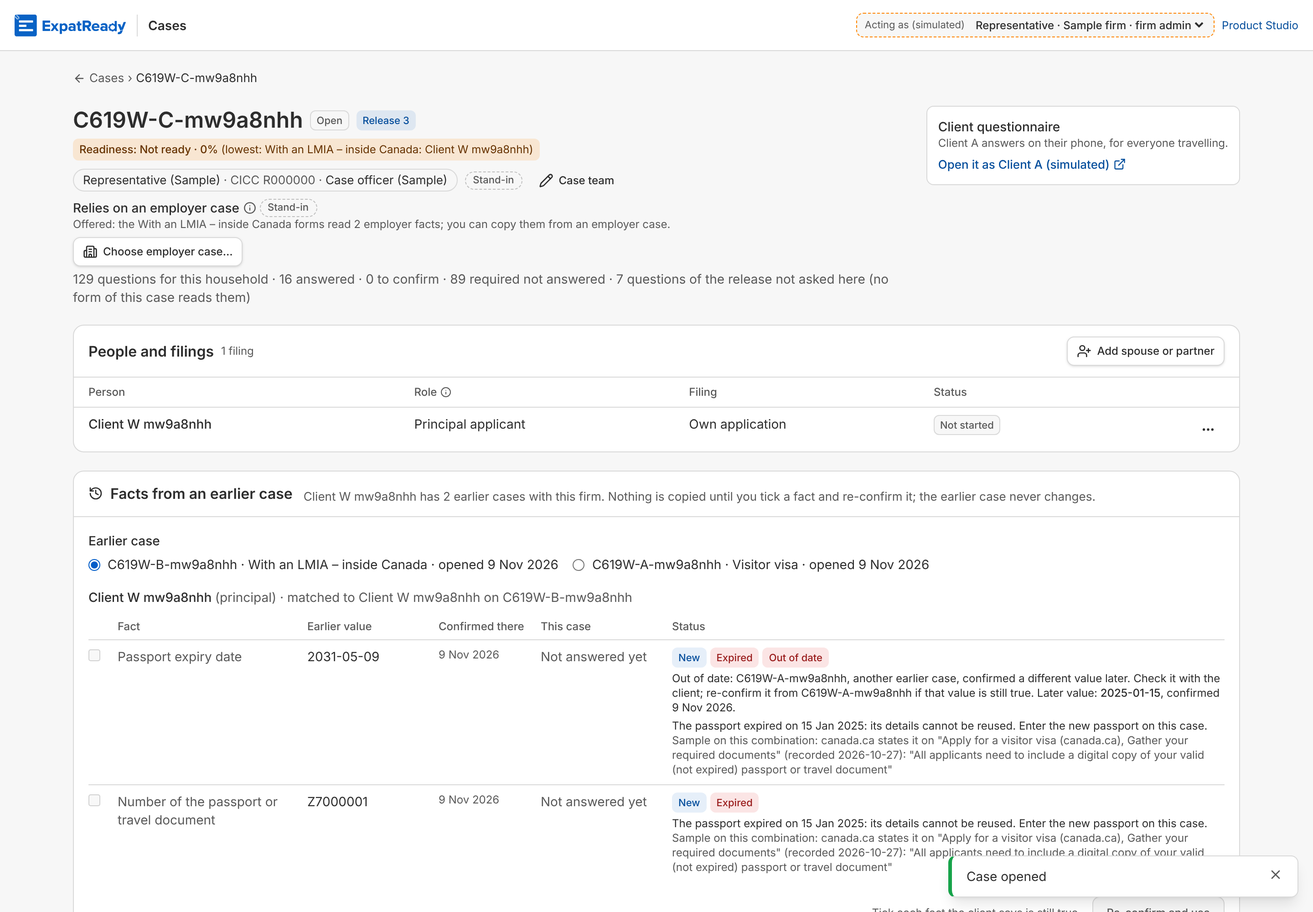
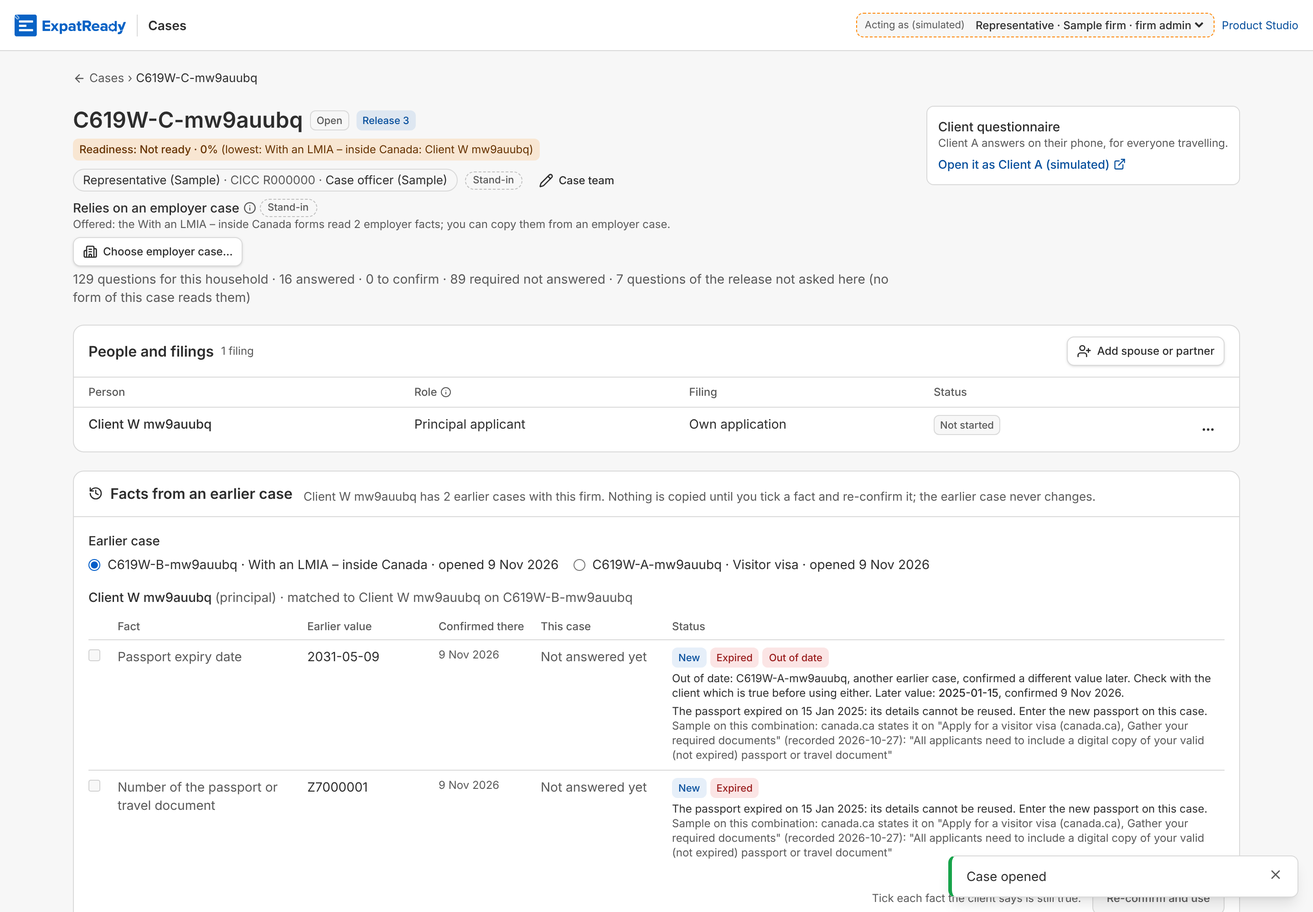
runtime: C6.19 — QA-338 review fixes: an unconfirmed correction still expires a stale copy
* Review M1: the expiry check reads the newest date typed for the person on any earlier case, confirmed or not
  (as on one case); the Out of date flag stays confirmed-only.
* Review m1: a date a case lacks is not borrowed from another case (it may be another passport's).
* Review m2: the Out of date words no longer advise re-confirming a value that may itself be refused.
* Review m3: a copy counts from its re-confirmation, not its first giving.
* Review m4: the refusal gives the Out of date reason; re-confirm reads the same cases as the card, candidates once.
* Pack 81/81: pure and API fail tests for M1, m1 and the Out of date refusal.

Fixes: QA-338

Claude-Session: https://claude.ai/code/session_01MXNda4k8UBWnRgXwe5YdHB

diff --git a/ai-workers/problem-1-pathway-setup-and-form-filling/prototype/studio/engine/runtime/earlier-facts.ts b/ai-workers/problem-1-pathway-setup-and-form-filling/prototype/studio/engine/runtime/earlier-facts.ts
@@ -91,25 +91,28 @@ export function matchPeople(here: Participant[], earlier: Participant[]): Map<st
 }
 
 /** One earlier answer as the offer reads it: confirmed on the earlier case (confirmation().confirmed) or not. */
-export type EarlierAnswer = { id: string; subjectId: string; field: string; value: unknown; confirmed: boolean; confirmedAt: string; confirmedBy: string };
+export type EarlierAnswer = { id: string; subjectId: string; field: string; value: unknown; confirmed: boolean; confirmedAt: string; confirmedBy: string; seenAt?: string };
+/** QA-338 (review m3): when the firm last vouched for an answer: a copy's re-confirmation, else the answer's own time. */
+const seenOf = (a: EarlierAnswer) => a.seenAt ?? a.confirmedAt;
 export type CurrentAnswer = { id: string; subjectId: string; field: string; value: unknown };
 /** QA-338: a value confirmed later on another earlier case of the same person, which makes this case's copy out of date. */
 export type NewerValue = { case_id: string; reference: string; value: unknown; confirmed_at: string; words: string };
 export type OfferFact = { fact: string; label: string; value: unknown; from_answer: string; confirmed_at: string; confirmed_by: string; state: "new" | "different"; current: { answer_id: string; value: unknown } | null; expiry: ExpiryFlag | null; newer: NewerValue | null; problems: string[]; usable: boolean };
 
-/** QA-338 (BR-6; concept §1, "an expired passport is caught before it reaches a form"): the newest value confirmed for
- *  each person on this case across every earlier case read, keyed "<this case's subject>|<fact>". Two earlier cases can
- *  disagree (a copy kept on case B, BR-3, while case A was corrected later); the newest confirmation is what the firm last
- *  knew. Pure: the reads are the earlier cases' answers with each case's person match (matchPeople). */
+/** QA-338 (BR-6; concept §1, "an expired passport is caught before it reaches a form"): the newest value for each person
+ *  on this case across every earlier case read, keyed "<this case's subject>|<fact>". Two earlier cases can disagree (a
+ *  copy kept on case B, BR-3, while case A was corrected later). Confirmed answers only by default (the Out of date flag);
+ *  with confirmedOnly false, also answers typed and not yet confirmed (the expiry check, as on one case: review M1).
+ *  Pure: the reads are the earlier cases' answers with each case's person match (matchPeople). */
 export type Latest = { case_id: string; reference: string; value: unknown; at: string };
-export function latestConfirmed(reads: { case_id: string; reference: string; match: Map<string, string>; answers: EarlierAnswer[] }[]): Map<string, Latest> {
+export function latestConfirmed(reads: { case_id: string; reference: string; match: Map<string, string>; answers: EarlierAnswer[] }[], confirmedOnly = true): Map<string, Latest> {
   const out = new Map<string, Latest>();
   for (const r of reads) {
     for (const [here, from] of r.match) {
       for (const a of r.answers) {
-        if (a.subjectId !== from || !a.confirmed) continue;
+        if (a.subjectId !== from || (confirmedOnly && !a.confirmed)) continue;
         const k = `${here}|${a.field}`, had = out.get(k);
-        if (!had || a.confirmedAt > had.at) out.set(k, { case_id: r.case_id, reference: r.reference, value: a.value, at: a.confirmedAt });
+        if (!had || seenOf(a) > had.at) out.set(k, { case_id: r.case_id, reference: r.reference, value: a.value, at: seenOf(a) });
       }
     }
   }
@@ -123,10 +126,12 @@ export type OfferPerson = { subject_id: string; label: string; role: string; fro
 /** BR-2, BR-5, BR-6: what one earlier case offers each person on this case. A fact this case already holds with the same
  *  value is not offered (Same); a different one is shown with both values (Different); an expired or unfit value is
  *  shown and not usable. Earlier people with no match are listed by name and role (nothing of theirs moves). */
-/** QA-338: with `latest` (latestConfirmed over every earlier case read) and this earlier case's id, a fact confirmed
- *  differently later on another earlier case is shown with that value and reason and is not usable, and the expiry rules
- *  read the newest date the firm holds for the person, so a stale copy of a corrected, expired passport is caught. */
-export function offerFrom(input: { snapshot: Snapshot; here: Participant[]; current: CurrentAnswer[]; earlier: Participant[]; earlierAnswers: EarlierAnswer[]; background?: Set<string>; today: Date; rules?: ExpiryRule[]; combinationKey?: string; caseId?: string; latest?: Map<string, Latest> }): { people: OfferPerson[]; unmatched: { label: string; role: string }[] } {
+/** QA-338: with `latest` (latestConfirmed over every earlier case read), `latestAny` (the same with unconfirmed answers)
+ *  and this earlier case's id, a fact confirmed differently later on another earlier case is shown with that value and
+ *  reason and is not usable, and a date this case holds is read as the newest one typed for the person elsewhere, so a
+ *  stale copy of a corrected, expired passport is caught. A date this case lacks is not borrowed (review m1: it may be
+ *  another passport's; BR-6's "not known" warning stays). */
+export function offerFrom(input: { snapshot: Snapshot; here: Participant[]; current: CurrentAnswer[]; earlier: Participant[]; earlierAnswers: EarlierAnswer[]; background?: Set<string>; today: Date; rules?: ExpiryRule[]; combinationKey?: string; caseId?: string; latest?: Map<string, Latest>; latestAny?: Map<string, Latest> }): { people: OfferPerson[]; unmatched: { label: string; role: string }[] } {
   const asked = personFactsAsked(input.snapshot, input.background);
   const match = matchPeople(input.here, input.earlier);
   const people: OfferPerson[] = [];
@@ -136,11 +141,9 @@ export function offerFrom(input: { snapshot: Snapshot; here: Participant[]; curr
     const all = from ? input.earlierAnswers.filter((a) => a.subjectId === from) : [], theirs = all.filter((a) => a.confirmed);
     // An expiry date read even when it was not confirmed there: a confirmed passport number never escapes an expired date.
     const dated = new Map(all.map((a) => [a.field, a.value]));
-    for (const [k, l] of input.latest ?? []) {
-      const [who, field] = [k.slice(0, k.indexOf("|")), k.slice(k.indexOf("|") + 1)];
-      if (who !== p.subjectId) continue;
-      const own = all.find((a) => a.field === field); // none here: the newest date known elsewhere is read
-      if (input.caseId && l.case_id !== input.caseId && (!own || newerThan(l, input.caseId, own.value, own.confirmedAt))) dated.set(field, l.value);
+    for (const a of all) {
+      const l = newerThan(input.latestAny?.get(`${p.subjectId}|${a.field}`), input.caseId, a.value, seenOf(a));
+      if (l) dated.set(a.field, l.value);
     }
     const flags = expiryFlags(dated, input.today, input.rules, input.combinationKey);
     const facts: OfferFact[] = [];
@@ -151,8 +154,8 @@ export function offerFrom(input: { snapshot: Snapshot; here: Participant[]; curr
       const state = factState(a.value, cur);
       if (state === "same") continue;
       const problems = checkValue(input.snapshot, q.fact, a.value, input.today), expiry = flags.get(q.fact) ?? null;
-      const n = newerThan(input.latest?.get(`${p.subjectId}|${q.fact}`), input.caseId, a.value, a.confirmedAt);
-      const newer: NewerValue | null = n ? { case_id: n.case_id, reference: n.reference, value: inStoredOrder(n.value), confirmed_at: n.at, words: `Out of date: ${n.reference}, another earlier case, confirmed a different value later. Check it with the client; re-confirm it from ${n.reference} if that value is still true.` } : null;
+      const n = newerThan(input.latest?.get(`${p.subjectId}|${q.fact}`), input.caseId, a.value, seenOf(a));
+      const newer: NewerValue | null = n ? { case_id: n.case_id, reference: n.reference, value: inStoredOrder(n.value), confirmed_at: n.at, words: `Out of date: ${n.reference}, another earlier case, confirmed a different value later. Check with the client which is true before using either.` } : null;
       facts.push({ fact: q.fact, label: q.label, value: inStoredOrder(a.value), from_answer: a.id, confirmed_at: a.confirmedAt, confirmed_by: a.confirmedBy, state, current: cur ? { answer_id: cur.id, value: inStoredOrder(cur.value) } : null, expiry, newer, problems, usable: !problems.length && !expiry?.blocks && !newer });
     }
     people.push({ subject_id: p.subjectId, label: p.label, role: p.role, from_subject_id: from, from_label: fromP?.label ?? null, facts });

diff --git a/ai-workers/problem-1-pathway-setup-and-form-filling/prototype/studio/acceptance/C6.19.test.ts b/ai-workers/problem-1-pathway-setup-and-form-filling/prototype/studio/acceptance/C6.19.test.ts
@@ -78,17 +78,24 @@ function pure() {
   const pB = [{ subjectId: "pB", role: "principal" as const, label: "Client A", applies: true }], pA = [{ subjectId: "pA", role: "principal" as const, label: "Client A", applies: true }];
   const onB = [ansAt("b1", "pB", NUMBER, "Z7000001", at(3)), ansAt("b2", "pB", EXPIRY, "2031-05-09", at(3))], onA = [ansAt("x1", "pA", NUMBER, "Z7000001", at(2)), ansAt("x2", "pA", EXPIRY, "2025-01-15", at(5))];
   const reads = [{ case_id: "B", reference: "CASE-B", match: matchPeople(here, pB), answers: onB }, { case_id: "A", reference: "CASE-A", match: matchPeople(here, pA), answers: onA }];
-  const latest = latestConfirmed(reads);
+  const latest = latestConfirmed(reads), latestAny = latestConfirmed(reads, false);
   ok("C6.19 QA-338: the newest confirmed value per person is the one confirmed last, on whichever earlier case", latest.get(`p|${EXPIRY}`)?.case_id === "A" && latest.get(`p|${EXPIRY}`)?.value === "2025-01-15", [...latest]);
-  const bOffer = offerFrom({ snapshot: s, here, current: [], earlier: pB, earlierAnswers: onB, today, caseId: "B", latest }).people.find((p) => p.subject_id === "p")!.facts;
+  const bOffer = offerFrom({ snapshot: s, here, current: [], earlier: pB, earlierAnswers: onB, today, caseId: "B", latest, latestAny }).people.find((p) => p.subject_id === "p")!.facts;
   const bExp = bOffer.find((f) => f.fact === EXPIRY), bNum = bOffer.find((f) => f.fact === NUMBER);
   ok("C6.19 QA-338 (newer value): case B's stale expiry is Out of date, naming case A and its later value, and cannot be ticked", bExp?.newer?.reference === "CASE-A" && bExp.newer.value === "2025-01-15" && /another earlier case, confirmed a different value later/.test(bExp.newer.words) && !bExp.usable, bExp);
   ok("C6.19 QA-338 (expired document): case B's passport number reads Expired from the newest expiry date (case A's), not usable", bNum?.expiry?.status === "expired" && /expired on 15 Jan 2025/.test(bNum.expiry.words) && !bNum.newer && !bNum.usable, bNum);
-  const aOffer = offerFrom({ snapshot: s, here, current: [], earlier: pA, earlierAnswers: onA, today, caseId: "A", latest }).people.find((p) => p.subject_id === "p")!.facts;
+  const aOffer = offerFrom({ snapshot: s, here, current: [], earlier: pA, earlierAnswers: onA, today, caseId: "A", latest, latestAny }).people.find((p) => p.subject_id === "p")!.facts;
   ok("C6.19 QA-338 fail (newer value): the newest value itself, and a value the other case agrees with, are never Out of date", aOffer.every((f) => !f.newer) && !bNum?.newer, aOffer.map((f) => [f.fact, f.newer]));
-  const valid = latestConfirmed([{ ...reads[0] }, { ...reads[1], answers: [ansAt("x2", "pA", EXPIRY, "2033-01-01", at(1))] }]);
-  const bOld = offerFrom({ snapshot: s, here, current: [], earlier: pB, earlierAnswers: onB, today, caseId: "B", latest: valid }).people.find((p) => p.subject_id === "p")!.facts;
+  const validReads = [{ ...reads[0] }, { ...reads[1], answers: [ansAt("x2", "pA", EXPIRY, "2033-01-01", at(1))] }];
+  const bOld = offerFrom({ snapshot: s, here, current: [], earlier: pB, earlierAnswers: onB, today, caseId: "B", latest: latestConfirmed(validReads), latestAny: latestConfirmed(validReads, false) }).people.find((p) => p.subject_id === "p")!.facts;
   ok("C6.19 QA-338 fail (expired document): an older, different value on another case neither marks case B's newer copy Out of date nor changes its expiry; both stay usable", bOld.every((f) => !f.newer && !f.expiry && f.usable), bOld.map((f) => [f.fact, f.newer, f.expiry?.status, f.usable]));
+  // Review M1: case A's correction typed and not yet confirmed still expires case B's copy (as on one case, BR-6).
+  const typedReads = [{ ...reads[0] }, { ...reads[1], answers: [onA[0], { ...onA[1], confirmed: false }] }];
+  const bTyped = offerFrom({ snapshot: s, here, current: [], earlier: pB, earlierAnswers: onB, today, caseId: "B", latest: latestConfirmed(typedReads), latestAny: latestConfirmed(typedReads, false) }).people.find((p) => p.subject_id === "p")!.facts;
+  ok("C6.19 QA-338 fail (review M1): a correction typed on case A and not confirmed still makes case B's passport number and expiry Expired, not usable (not Out of date: it is not confirmed)", bTyped.every((f) => f.expiry?.status === "expired" && !f.usable && !f.newer), bTyped.map((f) => [f.fact, f.expiry?.status, f.newer, f.usable]));
+  // Review m1: a date case B lacks is not borrowed from case A (it may be another passport's): B's number warns "not known".
+  const bNoDate = offerFrom({ snapshot: s, here, current: [], earlier: pB, earlierAnswers: [onB[0]], today, caseId: "B", latest, latestAny }).people.find((p) => p.subject_id === "p")!.facts.find((f) => f.fact === NUMBER);
+  ok("C6.19 QA-338 fail (review m1): case B with no expiry date of its own borrows none: its number keeps the 'not known' warning", bNoDate?.expiry?.status === "unknown" && bNoDate.usable, bNoDate);
 }
 
 async function checkpoint() {
@@ -237,6 +244,25 @@ async function api() {
   const viaB = bNumber ? await call("POST", `/runtime/cases/${c.id}/earlier-facts`, { earlierCase: b.id, take: [{ subject_id: pc, fact: NUMBER, from: bNumber.from_answer }], seen: { [`${pc}|${NUMBER}`]: null } }, OFFICER) : { status: 0, body: null };
   ok("C6.19 QA-338 fail: re-confirming case B's copy of the expired passport's number is refused; nothing copied", viaB.status === 409 && /cannot be re-confirmed/.test(JSON.stringify(viaB.body)) && copies(c.id) === 0, viaB.body);
   if (own) ok("C6.19 QA-338 fail: a copy on case B that no later confirmation contradicts (the date of birth) stays usable", fb.find((f) => f.fact === own)?.usable === true, fb.find((f) => f.fact === own));
+  // Review M1 and m4 on real cases: A2's correction typed only, then confirmed; B2 holds the copies from before it.
+  const N2 = `Client R ${run}`, a2 = await open(vv, "A2", N2), pa2 = principalOf(a2);
+  for (const f of [NUMBER, EXPIRY]) await answer(a2.id, pa2, f, VALUES[f]);
+  await confirmAll(a2.id, pa2);
+  const b2 = await open(wp, "B2", N2), pb2 = principalOf(b2);
+  const o2 = ((await offerOf(b2.id)).body as Offer).earlier[0].people.find((p) => p.subject_id === pb2)!.facts.filter((f) => f.fact === NUMBER || f.fact === EXPIRY);
+  const cp2 = await call("POST", `/runtime/cases/${b2.id}/earlier-facts`, { earlierCase: a2.id, take: o2.map((f) => ({ subject_id: pb2, fact: f.fact, from: f.from_answer })), seen: Object.fromEntries(o2.map((f) => [`${pb2}|${f.fact}`, null])) }, OFFICER);
+  ok("setup: case B2 re-confirms the passport number and expiry from case A2", (cp2.status === 201 || cp2.status === 200) && o2.length === 2, cp2.body);
+  const ea2 = (await questions(a2.id)).find((q) => q.subjectId === pa2 && q.fact === EXPIRY)!.answer!;
+  await answer(a2.id, pa2, EXPIRY, "2025-01-15", ea2.id); // typed on A2, not confirmed
+  const c2 = await open(wp, "C2", N2), pc2 = principalOf(c2);
+  const b2On = async () => ((await offerOf(c2.id)).body as Offer).earlier.find((x) => x.case_id === b2.id)!.people.find((p) => p.subject_id === pc2)!.facts;
+  const n2 = (await b2On()).find((f) => f.fact === NUMBER)!;
+  const viaB2 = await call("POST", `/runtime/cases/${c2.id}/earlier-facts`, { earlierCase: b2.id, take: [{ subject_id: pc2, fact: NUMBER, from: n2.from_answer }], seen: { [`${pc2}|${NUMBER}`]: null } }, OFFICER);
+  ok("C6.19 QA-338 fail (review M1): with case A2's correction typed but not confirmed, case B2's passport number reads Expired and re-confirming it is refused; nothing copied", n2.expiry?.status === "expired" && !n2.usable && viaB2.status === 409 && copies(c2.id) === 0, { n2, viaB2: viaB2.body });
+  await confirmAll(a2.id, pa2);
+  const x2 = (await b2On()).find((f) => f.fact === EXPIRY)!;
+  const outOfDate = await call("POST", `/runtime/cases/${c2.id}/earlier-facts`, { earlierCase: b2.id, take: [{ subject_id: pc2, fact: EXPIRY, from: x2.from_answer }], seen: { [`${pc2}|${EXPIRY}`]: null } }, OFFICER);
+  ok("C6.19 QA-338: once case A2 confirms it, case B2's expiry reads Out of date naming A2, and re-confirming it is refused with that reason (review m4)", /Out of date: C619-A2-/.test(JSON.stringify(x2)) && !x2.usable && outOfDate.status === 409 && /cannot be re-confirmed: Out of date: C619-A2-/.test(JSON.stringify(outOfDate.body)) && copies(c2.id) === 0, { x2, outOfDate: outOfDate.body });
 
   // Breaker M1: newer empty cases of the same client never crowd out the earlier case that holds the facts.
   for (let i = 0; i < 6; i++) await open(vv, `crowd${i}`, NAME);

diff --git a/ai-workers/problem-1-pathway-setup-and-form-filling/prototype/studio/api/src/earlier-facts.ts b/ai-workers/problem-1-pathway-setup-and-form-filling/prototype/studio/api/src/earlier-facts.ts
@@ -38,6 +38,8 @@ const ReconfirmBody = z.object({
 const stale = (labels: string[]): never => { throw new HttpException({ type: "https://expatready.local/problems/stale-answer", title: "Changed since you looked", status: 409, detail: `Changed since you looked: ${labels.join(", ")}. Reload to see the facts now; nothing was copied.`, errors: labels.map((l) => ({ field: l, message: "Changed since you looked." })) }, HttpStatus.CONFLICT); };
 const notPossible = (detail: string): never => { throw new HttpException({ type: "https://expatready.local/problems/not-possible", title: "Not possible now", status: 409, detail }, HttpStatus.CONFLICT); };
 const day = (d: Date) => d.toISOString().slice(0, 10);
+/** QA-338 (review m3): a copy counts from its re-confirmation on the case that holds it, not its first giving. */
+const seenAt = (a: { at: string; copiedFrom?: { at: string } | null }) => a.copiedFrom?.at && a.copiedFrom.at > a.at ? a.copiedFrom.at : a.at;
 
 export type EarlierOffer = { case_id: string; reference: string; combination: string; opened_at: string; people: OfferPerson[]; unmatched: { label: string; role: string }[] };
 
@@ -66,7 +68,7 @@ export class EarlierFacts {
     const es = this.runtime.snapshotOf(e), ePeople = this.runtime.peopleOf(e), st = await this.runtime.state(e);
     const { confirm } = knownOf(es, ePeople, st.answers, st.rows, today);
     const earlierAnswers: EarlierAnswer[] = st.answers.filter((a) => !a.rowKey && UUID.test(a.subjectId) && UUID.test(a.id) && a.channel !== FIRM_RECORD)
-      .map((a) => ({ id: a.id, subjectId: a.subjectId, field: a.field, value: a.value, confirmed: !!confirm.get(a.id)?.confirmed, confirmedAt: a.at, confirmedBy: a.actor }));
+      .map((a) => ({ id: a.id, subjectId: a.subjectId, field: a.field, value: a.value, confirmed: !!confirm.get(a.id)?.confirmed, confirmedAt: a.at, confirmedBy: a.actor, seenAt: seenAt(a) }));
     return { cand, e, ePeople, earlierAnswers };
   }
 
@@ -76,11 +78,12 @@ export class EarlierFacts {
     const reads = [];
     for (const cand of cands) reads.push(await this.readEarlier(actor, cand, today));
     const herePeople = this.runtime.peopleOf(c);
-    const latest = latestConfirmed(reads.map((r) => ({ case_id: r.e.id, reference: r.e.reference, match: matchPeople(herePeople, r.ePeople), answers: r.earlierAnswers })));
+    const all = reads.map((r) => ({ case_id: r.e.id, reference: r.e.reference, match: matchPeople(herePeople, r.ePeople), answers: r.earlierAnswers }));
+    const latest = latestConfirmed(all), latestAny = latestConfirmed(all, false);
     const mine = here ?? await this.runtime.state(c), current = this.current(mine.answers), snapshot = this.runtime.snapshotOf(c), background = this.runtime.backgroundOf(c);
     const combinationKey = (await this.db.combination.findUnique({ where: { id: c.combinationId }, select: { combinationKey: true } }))?.combinationKey;
     return reads.map((r) => ({ case_id: r.e.id, reference: r.e.reference, combination: r.cand.case.combination.label, opened_at: r.cand.case.createdAt.toISOString(),
-      ...offerFrom({ combinationKey, snapshot, here: herePeople, current, earlier: r.ePeople, earlierAnswers: r.earlierAnswers, background, today, caseId: r.e.id, latest }) }));
+      ...offerFrom({ combinationKey, snapshot, here: herePeople, current, earlier: r.ePeople, earlierAnswers: r.earlierAnswers, background, today, caseId: r.e.id, latest, latestAny }) }));
   }
 
   /** GET: the earlier cases of this client and what each offers (BR-1, BR-2). An empty list shows no card. */
@@ -103,13 +106,14 @@ export class EarlierFacts {
     const parsed = ReconfirmBody.safeParse(body ?? {});
     if (!parsed.success) throw new HttpException(problemFromZod(parsed.error), HttpStatus.BAD_REQUEST);
     const b = parsed.data;
-    const cand = (await this.candidates(c, b.earlierCase))[0];
+    const cands = await this.candidates(c), cand = cands.find((x) => x.case.id === b.earlierCase);
     if (!cand) fail("No earlier case of this client with that id.", HttpStatus.NOT_FOUND); // BR-1: another firm's or another person's case is never named
     const today = firmToday(), at = new Date().toISOString();
     // QA-338: the chosen case is judged against the others read for the card, so a value confirmed differently later
     // elsewhere is refused here as it is shown there.
-    const read = (await this.candidates(c)).slice(0, EARLIER_READ).filter((x) => x.case.id !== cand!.case.id);
-    const offer = (await this.offersOf(actor, c, [cand!, ...read], today))[0];
+    // Review m4: the same cases the card reads (the chosen one added when it is beyond them).
+    const shown = cands.slice(0, EARLIER_READ), read = shown.includes(cand!) ? shown : [...shown.slice(0, EARLIER_READ - 1), cand!];
+    const offer = (await this.offersOf(actor, c, read, today)).find((o) => o.case_id === cand!.case.id)!;
     const s = this.runtime.snapshotOf(c);
     const fields = (s.canonical_fields ?? []) as { id: string; item_version: number }[];
     const lines = b.take.map((t) => {
@@ -134,7 +138,7 @@ export class EarlierFacts {
       const moved = lines.filter((l) => l.line!.from_answer !== l.t.from);
       if (moved.length) stale(moved.map((l) => `${l.label} (on the earlier case)`));
       const blocked = lines.filter((l) => !l.line!.usable);
-      if (blocked.length) { const l = blocked[0].line!; const why = l.expiry?.blocks ? `${l.expiry.words} (${"sample" in l.expiry.source ? "Sample rule" : `canada.ca, ${l.expiry.source.page}, recorded ${l.expiry.source.recorded}`})` : l.newer ? l.newer.words : l.problems[0]; notPossible(`${blocked[0].label} cannot be re-confirmed: ${why} Nothing was copied.`); }
+      if (blocked.length) { const l = blocked[0].line!; const why = l.newer ? l.newer.words : l.expiry?.blocks ? `${l.expiry.words} (${"sample" in l.expiry.source ? "Sample rule" : `canada.ca, ${l.expiry.source.page}, recorded ${l.expiry.source.recorded}`})` : l.problems[0]; notPossible(`${blocked[0].label} cannot be re-confirmed: ${why} Nothing was copied.`); }
       // Challenge M2: the earlier answer shown must still be current there (append-only rows never change their value, so
       // the value copied is exactly the one the officer saw), read under a share lock so it cannot move during the copy.
       const froms = [...new Set(b.take.map((t) => t.from))];

diff --git a/ai-workers/problem-1-pathway-setup-and-form-filling/product/screens/C6.19/review-qa338.md b/ai-workers/problem-1-pathway-setup-and-form-filling/product/screens/C6.19/review-qa338.md
@@ -1,0 +1,95 @@
+# Review: C6.19 QA-338 fix (facts from an earlier case), commit 52f15e7f1 (`git diff origin/main...52f15e7f1`)
+
+Independent reviewer (P-303; I did not build it), 9 Nov 2026. Judged against concept §1 and §3 (BR-1, BR-6), qa report `2026-11-09-c619.md` §3, STANDARDS, EXPERIENCE §6 and QUALITY. My copy: `isolated.sh rev_qa338` on :4436 (runtime range), never :4400. All values are Sample. US$0. Unconfirmed: no counsel.
+
+**Verdict: Changes needed** (commit 52f15e7f1). 0 Blockers, 1 Major, 4 Minors. The QA-338 case as qa reported it is fixed, and its tests are good. But the same escape is still open when the correction on case A is not confirmed yet (M1). Journey score **9/10** (pass): `journey-test-reviewer-2026-11-09-qa338.md`.
+
+## What I ran (on 52f15e7f1, my copy)
+* Pack `acceptance/C6.19.test.ts 4436 xr_studio_rev_qa338`: **76/76, exit 0** (128 s). All 8 QA-338 checks ran, including the `if (own)` one.
+* qa's `check_qa338_earlier_cases_disagree.cjs`: **4/4, twice**.
+* Builder's walk `check_c619_earlier_facts_browser.cjs` (screenshots sent to my scratchpad): **21/21, twice**. axe found 0 violations in each state.
+* My probes (scratchpad):
+  * `probe/pure.ts`: engine edge cases (an unconfirmed correction, a missing expiry date, ties).
+  * `probe/api.cjs`: real cases A → B (copy) → correction on A → C, then POSTs.
+  * `probe/ui.cjs`: keyboard, 1024 px, 512 px (1024 at 200 %), 400 px, axe, refetch on focus.
+* Grep of the added lines for a combination key or program branch (`vv.`, `lmia`, `wp.`, `combinationKey ===`): none (P-425/P-426 met).
+* Not run: `graph.mjs`. It rewrites `qa/GRAPH.md`, which I may not edit. This diff adds no page and no route.
+
+## What holds
+* **BR-1, nothing chosen (QA-338 part 1): fixed.** With two earlier cases, no radio is checked and no fact row shows. The hint reads "Pick the earlier case to see what it offers. Nothing is chosen for you." (`08-nothing-chosen-1440.png`; my probe at 1024, 512 and 400 px: checked 0, rows 0).
+  * Keyboard: Space picks the first case, an arrow key picks the next. The pick holds through a focus refetch.
+* **Newer confirmed value (QA-338 part 2): fixed.** Case B's 2031-05-09 copy reads Out of date, names case A, and shows A's later value and date. It cannot be ticked (`09-case-b-out-of-date-1440.png`).
+  * The server refuses it with the same words. My probe ticked B's out-of-date date of birth: 409 "…cannot be re-confirmed: Out of date: R-A-…, another earlier case, confirmed a different value later… Nothing was copied."
+  * A value the other case agrees with is never flagged.
+* **Judgement calls I accept:**
+  * One earlier case is shown without a radio. There is no choice to make, concept §4's header names a single case, and every fact still needs its own tick.
+  * Ties keep the first read and flag neither side (`probe/pure.ts` case 4: different values at the same time, nothing Out of date). This fails safe.
+* **Same-case and cross-match:** `latestConfirmed` reads only current answers (one per person and fact on a case), so a "newer value on the same case" cannot arise. It also matches people with the same `matchPeople` that `offerFrom` uses, so the two cannot disagree.
+* **Speed:** GET 43 ms and POST 49–93 ms with 3 earlier cases. The card shows in 0.6–1.2 s. Reconfirm now reads up to 21 cases, where the card reads 20. Both are bounded, and `offersOf` makes no query per fact.
+* **Tests fail when the rule is removed:**
+  * Dropping `!newer` from `usable` fails the pure "cannot be ticked" check.
+  * Dropping the `factState` comparison in `newerThan` fails the check on case A's agreeing number.
+  * Reading only the chosen case on POST fails the API "viaB refused" check (B's number stays usable).
+
+## Major
+**M1. A correction on another case that is entered but not yet confirmed still lets the stale copy through: the expired passport's number is copied onto case C** (concept §1 "an expired passport is caught before it reaches a form"; BR-6; the fix asked for "whose document has expired… cannot be ticked").
+* Evidence, `probe/api.cjs` on :4436, real cases:
+  1. On A: number R3310001, expiry 2031-05-09 and date of birth, all confirmed.
+  2. B re-confirms all three from A (201).
+  3. On A, the officer edits the expiry to 2025-01-15 without pressing Confirm section (DECLARED, not confirmed).
+  4. Case C is opened.
+* What the card on C shows:
+  * Case A: passport number **Expired, blocked**.
+  * Case B: the same number R3310001 and the expiry 2031-05-09 are **usable, with no flag**.
+* POST from B for the number: **201 "Re-confirmed 1 fact from R-B-…"**. The expired passport's number is now on C. The UI shows the same thing at 512 px: B's 2031 row is New and tickable.
+* The engine reproduces it (`probe/pure.ts` case 1).
+* The card gives opposite answers for the same person and passport depending on which radio the officer picks. That is the QA-338 failure itself.
+* Cause:
+  * `latestConfirmed` (`engine/runtime/earlier-facts.ts:149-160`) skips `!a.confirmed`.
+  * The cross-case `dated` loop (l.183-189) reads only that map.
+  * On a case's own answers, the engine reads unconfirmed dates on purpose (l.181: "a confirmed passport number never escapes an expired date").
+* Fix: for the expiry dating only, use a second "newest value per person and fact, confirmed or not" map. That can be `latestConfirmed(reads, { anyStatus: true })`. Keep confirmed-only for the `newer` (Out of date) flag, as BR-2 says.
+* Tests:
+  * Fail test: the probe's sequence. B's number on C is Expired, and POST from B is 409.
+  * Pass test: a confirmed correction still behaves as now.
+
+## Minors
+**m1. A missing expiry date borrows another case's date even when that case holds a different passport** (the judgement call; BR-6 challenge m1 "with no expiry date on the earlier case the covered facts warn 'not known'").
+* `probe/pure.ts` case 2: B holds a newer passport number Z8 with no expiry date, and A holds the old Z7 with 2025-01-15. B's Z8 reads **"The passport expired on 15 Jan 2025"**, blocked. That is another document's date, and the words do not say where it came from.
+* Case 3: A's old passport is valid to 2033. B's Z8 loses its "not known" warning, and the card shows no flag at all.
+* Fix: borrow a date only from a case whose passport number equals this case's (or that holds the newest number). Otherwise keep "not known".
+
+**m2. The Out of date advice can send the officer to a value that is itself refused.**
+* In `09-case-b-out-of-date-1440.png` the advice says "re-confirm it from C619W-A… if that value is still true". Directly below it the card says the passport expired on 15 Jan 2025, and A's row is Expired.
+* Fix: when the newer value is itself blocked, end the advice at "Check it with the client".
+
+**m3. "Newer" ignores a copy's `reconfirmed_at`** (the judgement call).
+* A copy keeps its source's `at` (`api/src/earlier-facts.ts:159`), so a later re-confirmation with the client never counts. Two consequences:
+  * A copy re-confirmed after the other case's value is still marked "confirmed a different value later". That statement is untrue.
+  * In one order of events the other value is the one offered as usable. That order is: a case opened after B holds V2 at t5, and B re-confirms V1 from A at t9.
+* Rare, and it mostly fails safe. Fix: compare on max(`at`, `reconfirmed_at`).
+
+**m4. Test and bound gaps.**
+* No pack check covers the POST refusal through `newer.words` (`api/src/earlier-facts.ts:137`). The API checks refuse only through the expiry branch. My probe shows it works. Add one API fail check with a non-expiry fact, for example the date of birth corrected on A.
+* Reconfirm reads the chosen case plus 20 others (`:111`), while the card reads 20. With more than 20 earlier cases, the 21st can make the server refuse what the card offered.
+* `candidates()` runs twice per POST.
+
+## BIC (EXPERIENCE §6; only the checks this change touches; the others are as in `review.md`)
+| Check | Score | Evidence |
+|---|---|---|
+| BIC-03 No stale answers | Partly | Confirmed later correction: met (`09-…-1440`). Unconfirmed correction: not met (M1). |
+| BIC-05 Source shown | Met | Out of date names the case, the value and the date. |
+| BIC-07 Conflicts shown | Met | Both values are shown; nothing is overwritten. |
+| BIC-13 Errors say what and how | Partly | The 409 wording is right. The advice can point to a refused value (m2). |
+| BIC-14 Tooltips | Met | The Out of date chip is a focusable button with a tooltip. |
+| BIC-18 States | Met | The nothing-chosen state teaches (`08-…-1440`). |
+| BIC-19 Layout | Met | One heading and one primary button. At 1024 px no sideways scroll. At 200 % the table scrolls inside its own box (as before). |
+| BIC-20 Keyboard | Met | Radios work by arrow keys and the hint is visible. axe found 0 violations at all three widths. |
+
+## D-scores touched (0–2)
+D1 1 (M1) · D2 1 (M1 lets an expired value in) · D5 2 (the pick holds on refetch; reload is safe) · D10 1 (m2) · D11 2 · D13 2 · D15 2 · D16 1 (m4) · D18 2 · D17/D20 simulated only.
+
+## Could not check
+* A real screen reader.
+* An unaided walk by an intended user.
+* A race between the POST's read of the other cases and a correction landing during the transaction: the other cases' answers are not locked. This is the existing pattern, and I did not probe it.

diff --git a/ai-workers/problem-1-pathway-setup-and-form-filling/product/screens/C6.19/journey-test-reviewer-2026-11-09-qa338.md b/ai-workers/problem-1-pathway-setup-and-form-filling/product/screens/C6.19/journey-test-reviewer-2026-11-09-qa338.md
@@ -1,0 +1,44 @@
+# Journey test, reviewer: C6.19 QA-338 fix, commit 52f15e7f1 (9 Nov 2026)
+
+Reviewer role, the one journey score for this check. Copy `rev_qa338` on :4436. Playwright headless (no headed pane in this container), at 1440 / 1024 / 512 (1024 at 200 %) / 400 px, Toronto time. All data is Sample.
+
+## Journeys (case officer, firm staff)
+1. **Main.** Client R has two earlier cases, A (Visitor visa) and B (With an LMIA, holding copies from A). On new case C the officer wants only facts that are still true. Expected: nothing is chosen; the officer picks a case and sees which facts can be used.
+2. **Alternate.** Case A's expiry was corrected and confirmed after B copied it. Picking B should show B's 2031-05-09 as Out of date, naming A, and the tick should be off.
+3. **Error.** The officer ticks an out-of-date fact anyway, by URL or with a stale tab. Expected: the server refuses it and nothing is copied.
+4. **Break.** Case A's correction was typed but not confirmed yet. Expected: the expired passport is still caught on B's copies.
+5. **Recovery.** Pick B, then the window regains focus and the data refetches. Expected: the pick holds and the ticks stay sane.
+6. **Keyboard only.** Reach the radios, pick a case, tick a fact.
+7. **Step across the boundary.** After "Re-confirm and use", the facts are on C. The C6.3 Agent view origin is covered by the builder's walk (21/21, twice).
+
+## What held
+* J1: no radio checked and no fact rows, with the hint visible at every width (`08-nothing-chosen-1440.png`). Picking a case shows its table.
+* J2: Out of date chip plus "Later value: 2025-01-15, confirmed 9 Nov 2026", tick disabled (`09-case-b-out-of-date-1440.png`). qa's check 4/4, twice.
+* J3: POST of B's out-of-date date of birth → 409, with the Out of date words and "Nothing was copied". The expired-number POST → 409 (pack).
+* J5: the pick held after a focus refetch. No console or page errors.
+* J6: Space and the arrow keys pick a case, Tab reaches the tick, then the chip button. Disabled ticks carry `aria-describedby` pointing to the reason. axe found 0 violations in the nothing-chosen and picked states at 1024, 512 and 400 px. No sideways page scroll.
+* Speed: GET 43 ms, POST 49–93 ms; the card is ready 0.6–1.2 s after navigation.
+
+## Findings
+* **Major (J4).** With A's correction unconfirmed, B's number and its 2031 expiry are New and tickable on C, while A's number reads Expired. The POST from B returns 201, so the expired passport's number is copied onto C (`review-qa338.md` M1).
+* Minor. The Out of date advice says "re-confirm it from <A>" even when A's value is Expired and refused (`09-…-1440`; m2).
+* Minor. A missing expiry date borrows another passport's date ("expired on 15 Jan 2025" on a newer number; m1).
+* Known from earlier, not counted again: ISO dates in the card; at 200 % the table scrolls inside its own box and the status cell grows tall.
+
+## Score
+| Criterion | Score | Evidence |
+|---|---|---|
+| Task completed | 1 | J1–J3 complete by screens |
+| Next step obvious | 1 | "Pick the earlier case…" hint; Out of date says to check with the client |
+| Plain words | ½ | The advice points to a refused value (m2); ISO dates |
+| Feedback and state | 1 | Chips, disabled ticks, reasons in the row |
+| Correct data | ½ | J4: an expired passport's number is copied (M1) |
+| Error recovery | 1 | 409 with words; nothing copied |
+| Accessibility and screen sizes | 1 | axe clean at 3 widths, keyboard path works, no sideways scroll |
+| Speed | 1 | Under 100 ms per API call |
+| Visual quality | 1 | Team chips and tones; dense but readable at 1440 |
+| Trust and sources | 1 | Names the other case, its value, the date and the rule's source |
+
+**9/10, pass, no criterion at 0.** Fix M1 to raise "correct data", and m2 to raise "plain words".
+
+Could not test: a real screen reader, a headed walk by a person, or an intended user's unaided walk (D17/D20 stay with the founder).
